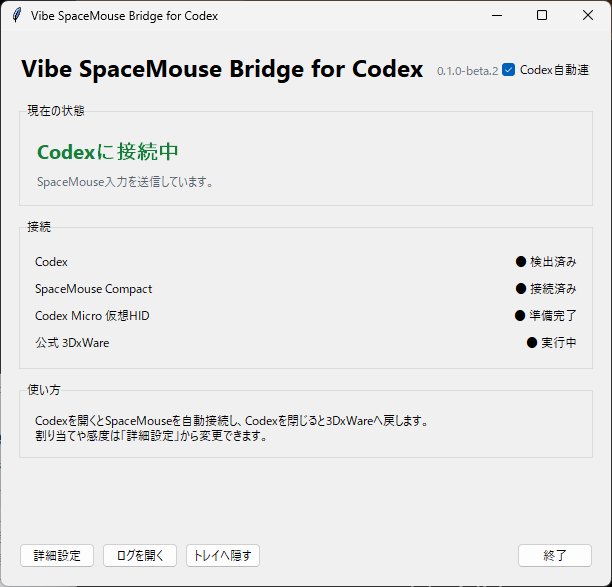
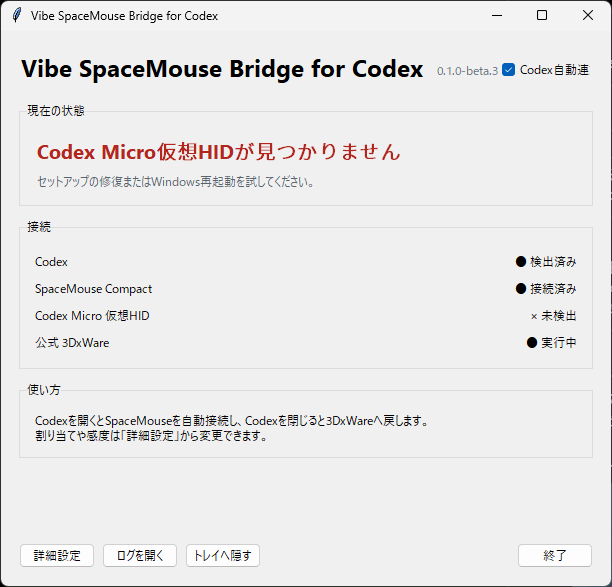
Restore recognizable SpaceMouse mapping artwork

diff --git a/spacemouse_input/gui.py b/spacemouse_input/gui.py
@@ -19,7 +19,7 @@ from .runtime import run_bridge
 
 
 DEFAULT_CONFIG_PATH = Path(__file__).resolve().parents[1] / "config" / "mapping.json"
-DEVICE_ART_PATH = Path(__file__).resolve().parent / "assets" / "vibe-6dof.png"
+DEVICE_ART_PATH = Path(__file__).resolve().parent / "assets" / "spacemouse-controller.png"
 LEFT_CALLOUTS = (
     ("tz-", "↑  Z− 引き上げ"),
     ("rz-", "↺  左ひねり"),

diff --git a/spacemouse_input/version.py b/spacemouse_input/version.py
@@ -1,5 +1,5 @@
 """Product identity shared by the release app and build scripts."""
 
 PRODUCT_NAME = "Vibe SpaceMouse Bridge for Codex"
-PRODUCT_VERSION = "0.1.0-beta.2"
-PRODUCT_VERSION_NUMERIC = "0.1.0.2"
+PRODUCT_VERSION = "0.1.0-beta.3"
+PRODUCT_VERSION_NUMERIC = "0.1.0.3"

diff --git a/README.md b/README.md
@@ -2,7 +2,7 @@
 
 [![Windows 11](https://img.shields.io/badge/Windows-11%20x64-0078D4?logo=windows11)](https://www.microsoft.com/windows/windows-11)
 [![License: MIT](https://img.shields.io/badge/License-MIT-yellow.svg)](LICENSE)
-[![Release](https://img.shields.io/badge/release-0.1.0--beta.2-blue)](https://github.com/bruiselea/vibe-spacemouce/releases/tag/v0.1.0-beta.2)
+[![Release](https://img.shields.io/badge/release-0.1.0--beta.3-blue)](https://github.com/bruiselea/vibe-spacemouce/releases/tag/v0.1.0-beta.3)
 
 手元にある3Dconnexion SpaceMouseを、Codex Micro風の入力デバイスとして使うための
 Windows向けブリッジです。
@@ -16,7 +16,7 @@ SpaceMouseの押す・引く・傾ける・ひねる・左右ボタンを、Code
 承認／却下、Agent切り替えなどへ割り当てられます。
 
 > [!WARNING]
-> `0.1.0-beta.2`はテスト署名ドライバを使う検証版です。SetupはPCのRoot／TrustedPublisherへ
+> `0.1.0-beta.3`はテスト署名ドライバを使う検証版です。SetupはPCのRoot／TrustedPublisherへ
 > テスト証明書を登録します。内容を理解したうえで、信頼できる配布元から入手したSetupだけを
 > 使用してください。一般公開用の正式署名版ではありません。
 
@@ -47,8 +47,8 @@ SpaceMouseの押す・引く・傾ける・ひねる・左右ボタンを、Code
 
 ## インストール
 
-1. [Releases](https://github.com/bruiselea/vibe-spacemouce/releases/tag/v0.1.0-beta.2)から
-   `VibeSpaceMouseBridgeForCodex-0.1.0-beta.2-x64-setup.exe`をダウンロードします。
+1. [Releases](https://github.com/bruiselea/vibe-spacemouce/releases/tag/v0.1.0-beta.3)から
+   `VibeSpaceMouseBridgeForCodex-0.1.0-beta.3-x64-setup.exe`をダウンロードします。
 2. 必要に応じて同梱のSHA-256ファイルと照合します。
 3. Setupを実行し、テスト証明書と仮想HIDドライバの導入に同意します。
 4. Codexを起動するとSpaceMouseへ自動接続します。

diff --git a/BETA_README.md b/BETA_README.md
@@ -1,4 +1,4 @@
-# Vibe SpaceMouse Bridge for Codex 0.1.0-beta.2
+# Vibe SpaceMouse Bridge for Codex 0.1.0-beta.3
 
 Windows 11 x64と3Dconnexion SpaceMouse Compact向けの身内検証版です。
 Codexを起動するとSpaceMouse入力をCodex Micro互換HIDへ送り、Codex終了後に公式3DxWareへ戻します。
